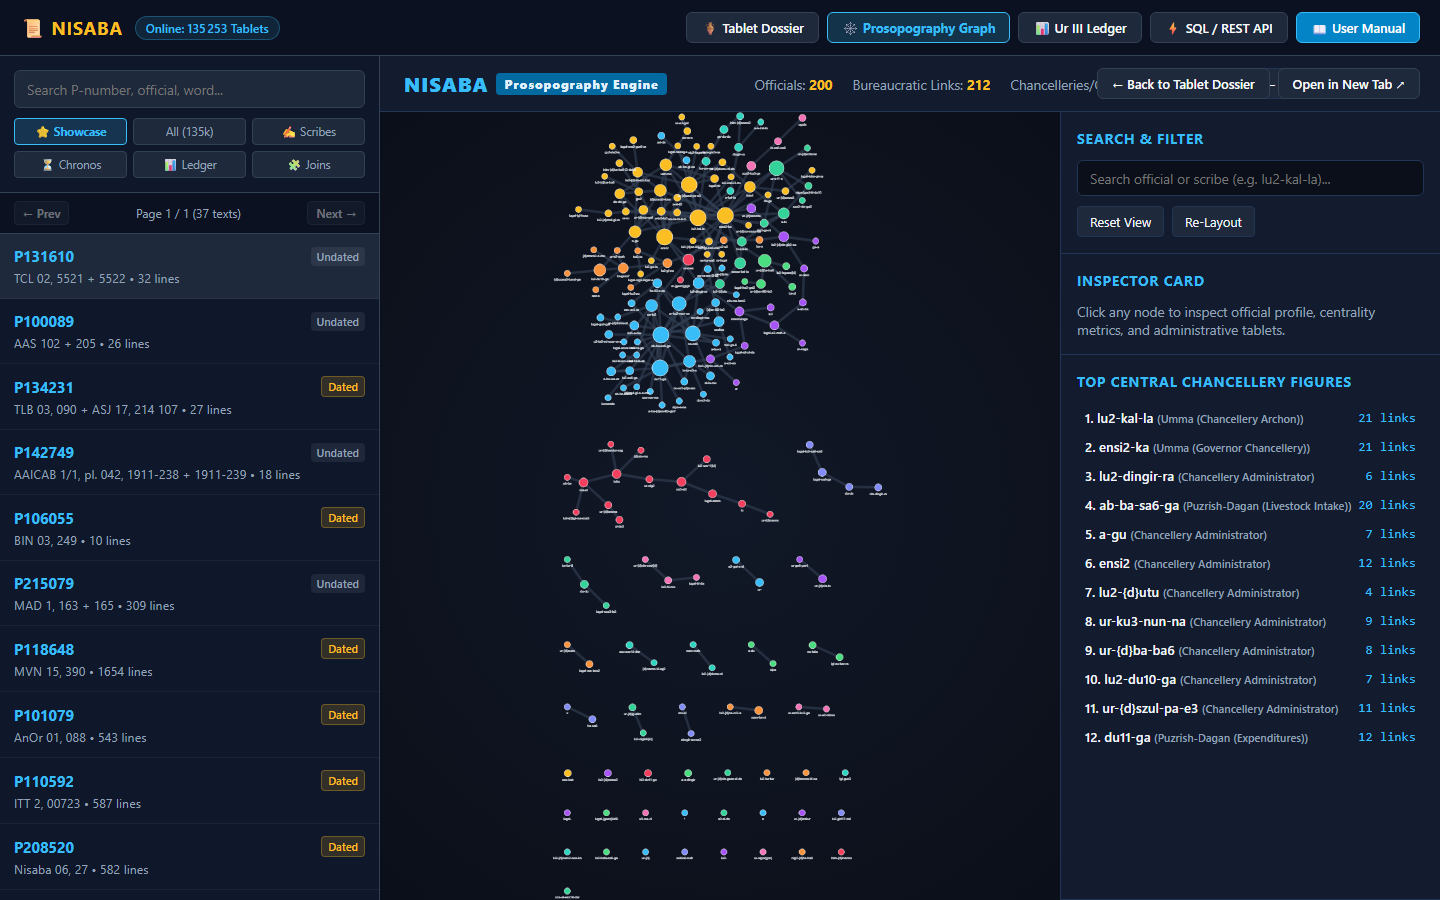
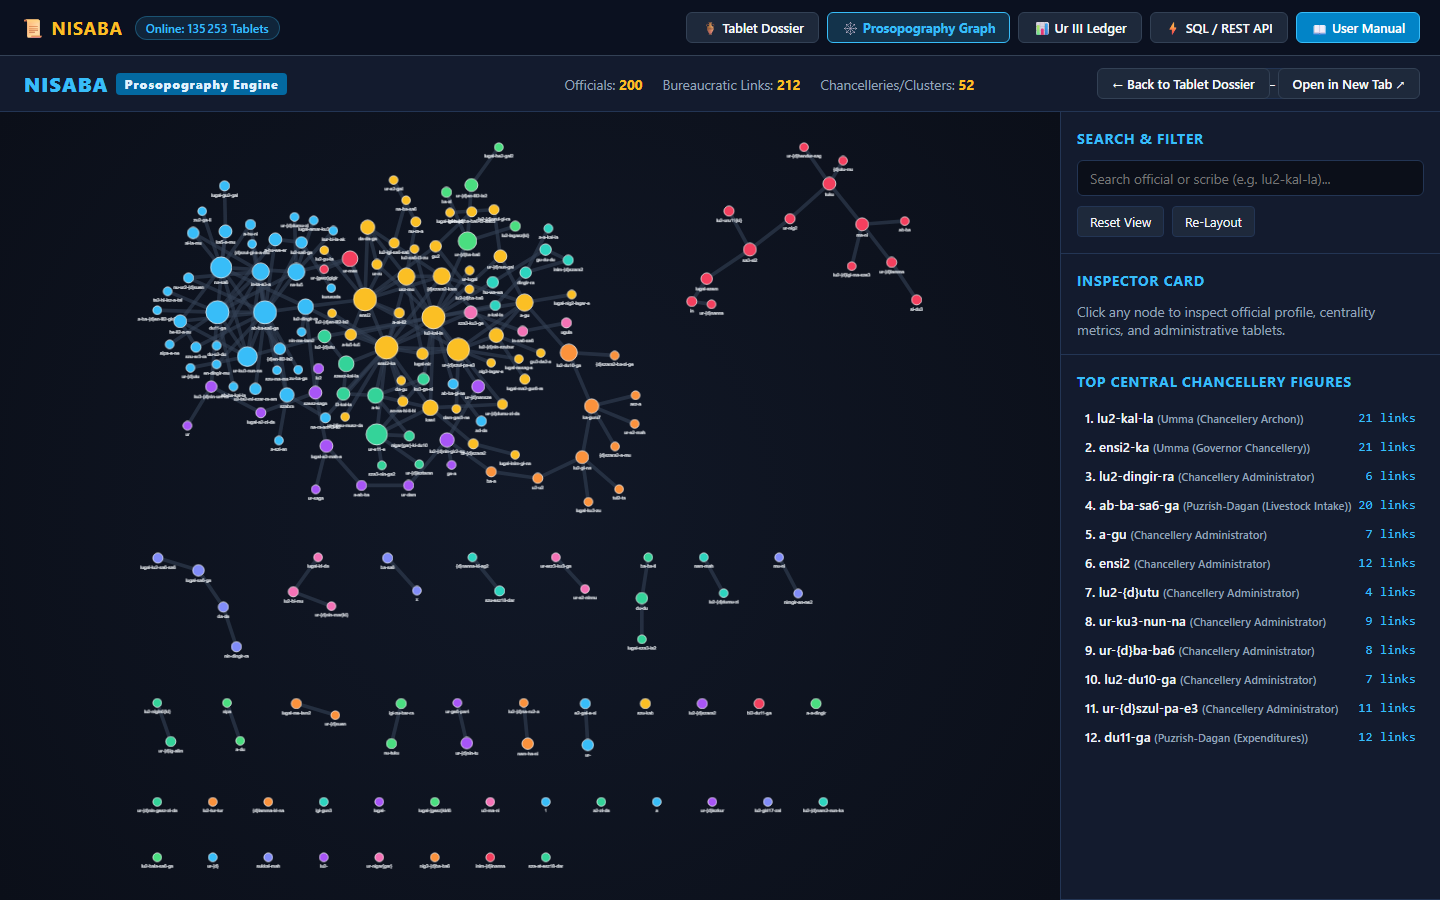
feat(browser): maximize prosopography graph to full screen by hiding tablet selector sidebar

diff --git a/data/processed/browser.html b/data/processed/browser.html
@@ -387,11 +387,13 @@
         function switchView(view) {
             const dossier = document.getElementById('viewDossierContainer');
             const graph = document.getElementById('viewGraphContainer');
+            const sidebar = document.getElementById('sidebar');
             const btnDossier = document.getElementById('btnNavDossier');
             const btnGraph = document.getElementById('btnNavGraph');
 
             if (view === 'graph') {
                 dossier.style.display = 'none';
+                if (sidebar) sidebar.style.display = 'none';
                 graph.style.display = 'flex';
                 const frame = document.getElementById('graphFrame');
                 const targetSrc = (window.location.protocol === 'file:') ? 'prosopography_graph.html' : `${API_BASE}/api/graph/view`;
@@ -419,6 +421,7 @@
                 btnGraph.classList.add('active');
             } else {
                 dossier.style.display = 'flex';
+                if (sidebar) sidebar.style.display = 'flex';
                 graph.style.display = 'none';
                 btnDossier.classList.add('active');
                 btnGraph.classList.remove('active');

diff --git a/src/browser/renderer.py b/src/browser/renderer.py
@@ -408,11 +408,13 @@ HTML_TEMPLATE = r"""<!DOCTYPE html>
         function switchView(view) {
             const dossier = document.getElementById('viewDossierContainer');
             const graph = document.getElementById('viewGraphContainer');
+            const sidebar = document.getElementById('sidebar');
             const btnDossier = document.getElementById('btnNavDossier');
             const btnGraph = document.getElementById('btnNavGraph');
 
             if (view === 'graph') {
                 dossier.style.display = 'none';
+                if (sidebar) sidebar.style.display = 'none';
                 graph.style.display = 'flex';
                 const frame = document.getElementById('graphFrame');
                 const targetSrc = (window.location.protocol === 'file:') ? 'prosopography_graph.html' : `${API_BASE}/api/graph/view`;
@@ -440,6 +442,7 @@ HTML_TEMPLATE = r"""<!DOCTYPE html>
                 btnGraph.classList.add('active');
             } else {
                 dossier.style.display = 'flex';
+                if (sidebar) sidebar.style.display = 'flex';
                 graph.style.display = 'none';
                 btnDossier.classList.add('active');
                 btnGraph.classList.remove('active');
